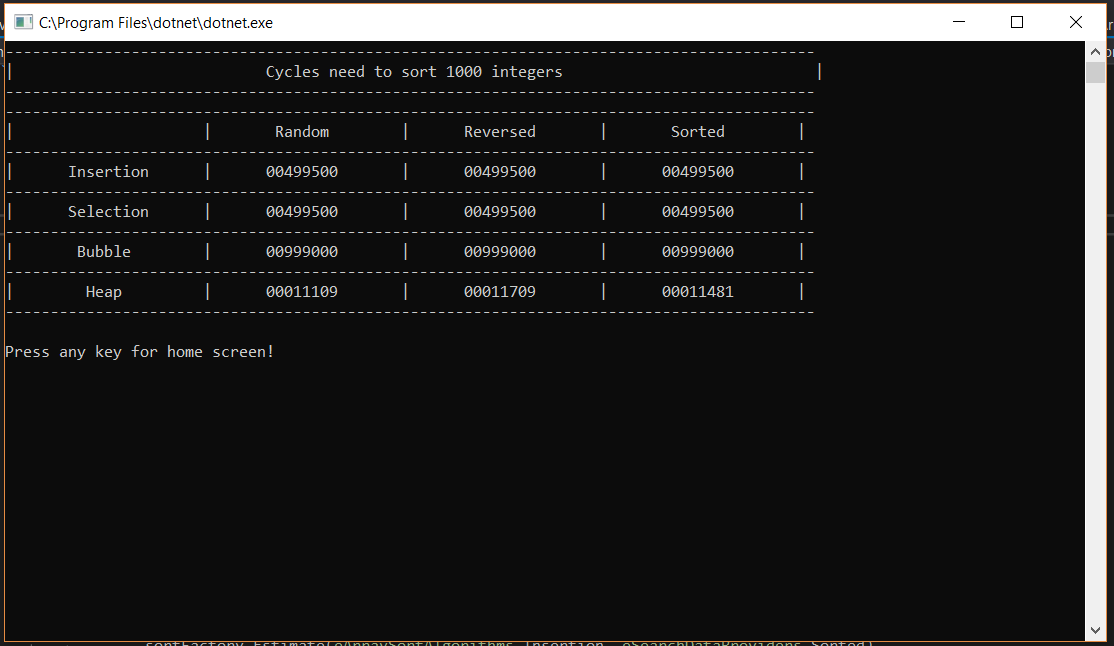
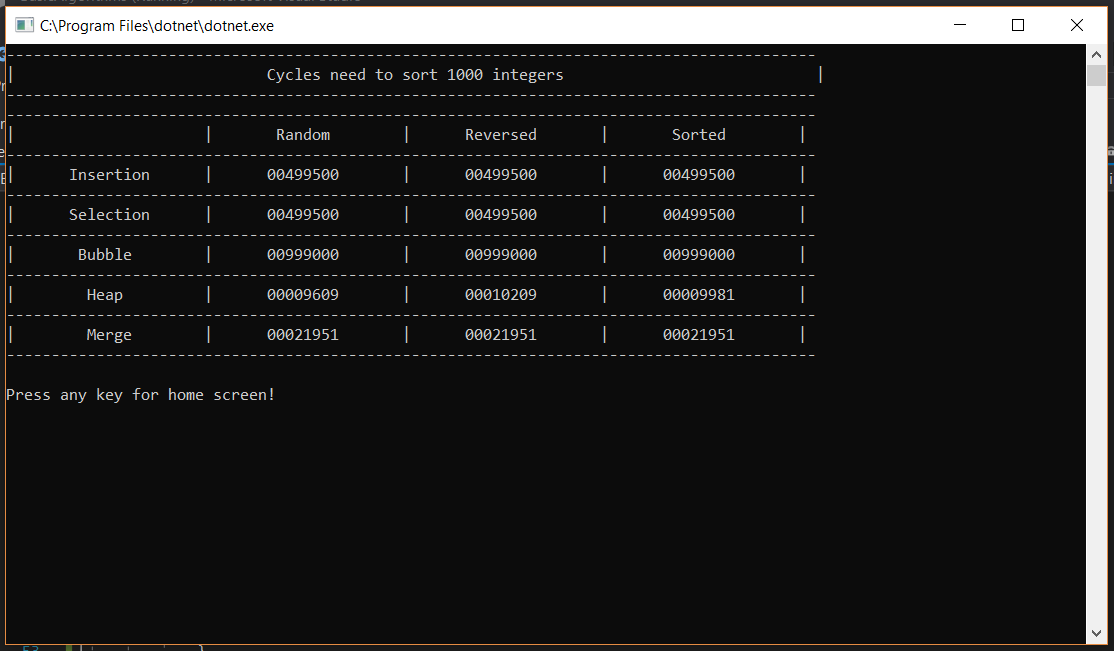
merge sort

diff --git a/BasicAlgorithms/Arrays/SortingAlgorithms/MergeSort.cs b/BasicAlgorithms/Arrays/SortingAlgorithms/MergeSort.cs
@@ -1,0 +1,93 @@
+using BasicAlgorithmsArrays.SortingAlgorithms.Interfaces;
+using BasicAlgorithmsArrays.SortingAlgorithms.Models;
+using System;
+using System.Collections.Generic;
+using System.Linq;
+using System.Text;
+
+namespace BasicAlgorithmsArrays.SortingAlgorithms
+{
+    public class MergeSort : ISort
+    {
+        private int cyclesCount = 0;
+        /// <summary>
+        /// Merge Sort Algorithm [Time: O(n*logn), Space: O(n)]
+        /// </summary>
+        /// <param name="data"></param>
+        /// <returns></returns>
+        public SortResults Sort(List<int> data)
+        {
+            var results = new SortResults();
+            var watch = System.Diagnostics.Stopwatch.StartNew();
+
+            _Sort(data, 0, data.Count - 1);
+
+            results.SortedData = data;
+            watch.Stop();
+            results.Ticks = watch.ElapsedMilliseconds;
+            results.Cycles = cyclesCount;
+            return results;
+        }
+
+        private void _Sort(List<int> data, int start, int end)
+        {
+            cyclesCount++;
+            if (start < end)
+            {
+                var middle = (start + end) / 2;
+                _Sort(data, start, middle);
+                _Sort(data, middle + 1, end);
+                _Merge(data, start, middle, end);
+            }
+        }
+
+        private void _Merge(List<int> data, int start, int middle, int end)
+        {
+            //create the two arrays to merge
+            var a1 = new List<int>();
+            var a2 = new List<int>();
+            for (var i = start; i <= middle; i++)
+            {
+                cyclesCount++;
+                a1.Add(data[i]);
+            }
+            for (var i = middle + 1; i <= end; i++)
+            {
+                cyclesCount++;
+                a2.Add(data[i]);
+            }
+
+            //loop through both arrays and check order
+            var i1 = 0;
+            var i2 = 0;
+            var iData = start;
+            while (i1 < a1.Count && i2 < a2.Count)
+            {
+                cyclesCount++;
+                if (a1[i1] <= a2[i2])
+                {
+                    data[iData] = a1[i1];
+                    i1++;
+                }
+                else
+                {
+                    data[iData] = a2[i2];
+                    i2++;
+                }
+                iData++;
+            }
+
+            //add any item that left out
+            while (i1 < a1.Count)
+            {
+                cyclesCount++;
+                data[iData++] = a1[i1++];
+            }
+            while (i2 < a2.Count)
+            {
+                cyclesCount++;
+                data[iData++] = a2[i2++];
+            }
+        }
+    }
+}

diff --git a/BasicAlgorithms.Tests/Arrays/SortingAlgorithms/MergeSortTests.cs b/BasicAlgorithms.Tests/Arrays/SortingAlgorithms/MergeSortTests.cs
@@ -1,0 +1,26 @@
+using Microsoft.VisualStudio.TestTools.UnitTesting;
+using System.Collections.Generic;
+using BasicAlgorithmsArrays.SortingAlgorithms;
+
+namespace BasicAlgorithms.Tests.ArraysArrays.SortingAlgorithms
+{
+    [TestClass]
+    public class MergeSortTests
+    {
+        [TestMethod]
+        public void MergeSort_Sort()
+        {
+            var search = new MergeSort();
+
+            var list = new List<int>() { 5, 1, 3, 2, 4 }; ;
+            var result = search.Sort(list);
+            Assert.AreEqual(1, result.SortedData[0]);
+            Assert.AreEqual(2, result.SortedData[1]);
+            Assert.AreEqual(3, result.SortedData[2]);
+            Assert.AreEqual(4, result.SortedData[3]);
+            Assert.AreEqual(5, result.SortedData[4]);
+        }
+
+
+    }
+}

diff --git a/BasicAlgorithms/Arrays/SortingAlgorithms/HeapSort.cs b/BasicAlgorithms/Arrays/SortingAlgorithms/HeapSort.cs
@@ -49,7 +49,7 @@ namespace BasicAlgorithmsArrays.SortingAlgorithms
         //space O(n) because of recursion, could be modified to a loop for O(1) complexity
         private void Heapify(List<int> data, int length, int largest)
         {
-            counter++;
+            
             //assume largest and get left and right that should be smaller
             var new_largest = largest;
             var left = 2 * largest + 1;//left branch of heap tree
@@ -67,6 +67,7 @@ namespace BasicAlgorithmsArrays.SortingAlgorithms
             // and recurse with the new largest
             if (new_largest != largest)
             {
+                counter++;
                 var tmp = data[largest];
                 data[largest] = data[new_largest];
                 data[new_largest] = tmp;

diff --git a/BasicAlgorithms/UI/ArraySortUI.cs b/BasicAlgorithms/UI/ArraySortUI.cs
@@ -49,6 +49,11 @@ namespace BasicAlgorithms.UI
                 _sortFactory.Estimate(eArraySortAlgorithms.Heap, eSearchDataProviders.ReverseSorted),
                 _sortFactory.Estimate(eArraySortAlgorithms.Heap, eSearchDataProviders.Sorted)
             );
+            PrintGrid("Merge",
+                _sortFactory.Estimate(eArraySortAlgorithms.Merge, eSearchDataProviders.Unsorted),
+                _sortFactory.Estimate(eArraySortAlgorithms.Merge, eSearchDataProviders.ReverseSorted),
+                _sortFactory.Estimate(eArraySortAlgorithms.Merge, eSearchDataProviders.Sorted)
+            );
         }
 
         private void PrintGrid(string title, SortResults u, SortResults r, SortResults s)

diff --git a/BasicAlgorithms/Arrays/ArraySortFactory.cs b/BasicAlgorithms/Arrays/ArraySortFactory.cs
@@ -42,6 +42,8 @@ namespace BasicAlgorithms.Arrays
                     return new BubbleSort();
                 case eArraySortAlgorithms.Heap:
                     return new HeapSort();
+                case eArraySortAlgorithms.Merge:
+                    return new MergeSort();
             }
 
             throw new NotImplementedException("Unknown algorithm '" + nameof(sortAlgorithm) + "'");

diff --git a/BasicAlgorithms/Arrays/SortingAlgorithms/Models/eArraySortAlgorithms.cs b/BasicAlgorithms/Arrays/SortingAlgorithms/Models/eArraySortAlgorithms.cs
@@ -4,5 +4,5 @@ using System.Text;
 
 namespace BasicAlgorithms.Arrays.SortingAlgorithms.Models
 {
-    public enum eArraySortAlgorithms { Insertion, Selection, Bubble, Heap }
+    public enum eArraySortAlgorithms { Insertion, Selection, Bubble, Heap, Merge }
 }
